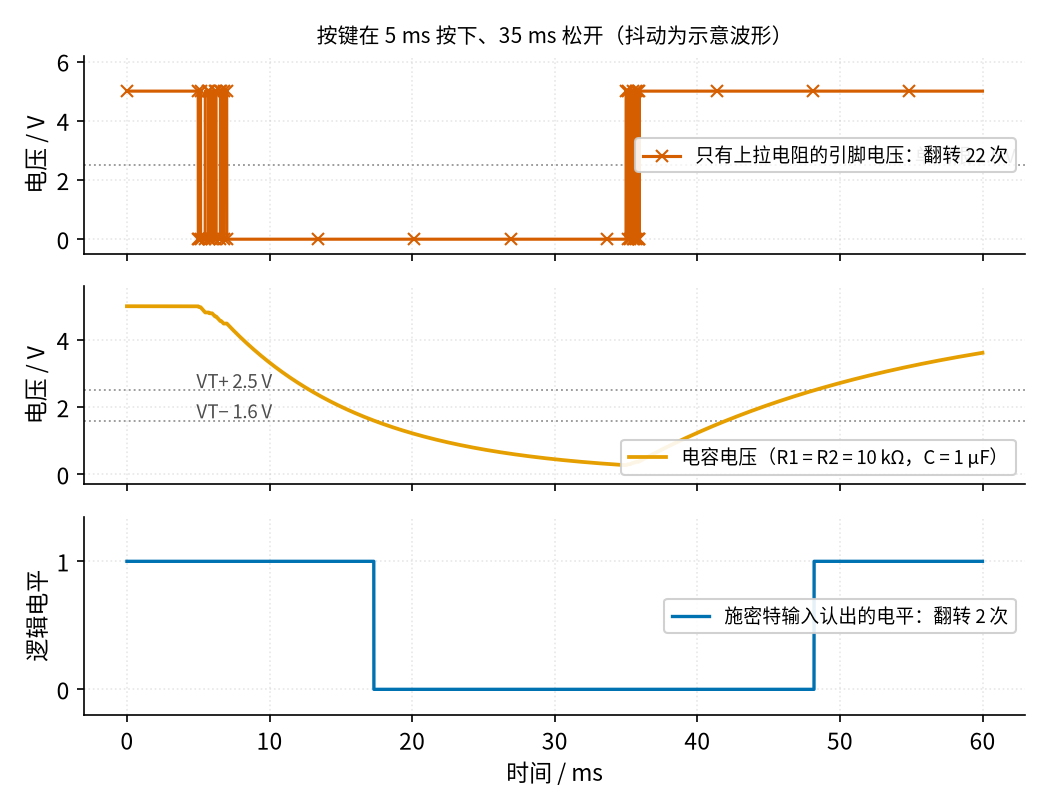
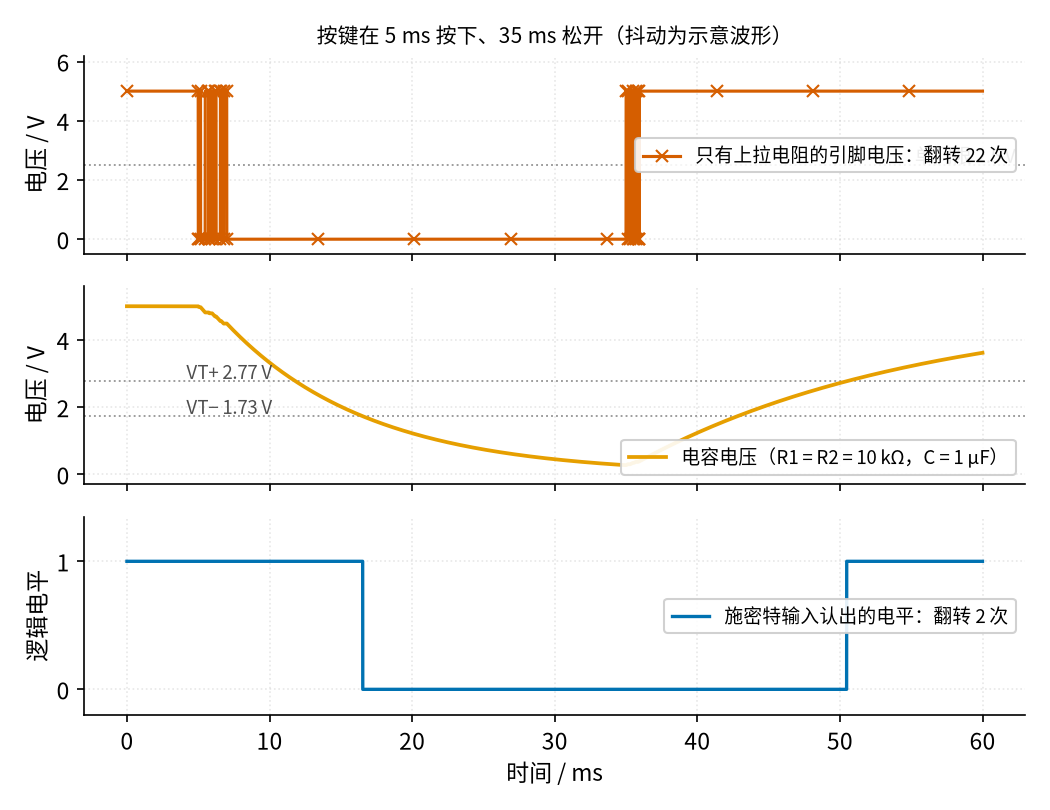
fix: 26 SPICE 核对修改

diff --git a/code/26_sim.py b/code/26_sim.py
@@ -3,11 +3,14 @@ N 沟道 MOS 管双向电平转换。
 运行：/workspace/circuits-venv/bin/python code/26_sim.py   → 26-pullup-level-shift/img/26_p2_2_debounce.png
 同时打印电平转换模型的关键数字；code/figs/26_figs.py 会调用这里的函数（包括 level_shifter）画其余的图。
 数据来源：
-- 施密特门限：TI SN74HC14 数据手册，VCC = 4.5 V 一行典型值 VT+ 2.5 V、VT− 1.6 V（5 V 系统近似使用）。
+- 施密特门限：TI SN74HC14 数据手册只给 4.5 V、6 V 两栏（典型 VT+ 2.5 / 3.3 V，VT− 1.6 / 2.0 V），
+  本电路接 5 V，按两栏线性插值到 5 V：VT+ ≈ 2.77 V、VT− ≈ 1.73 V（与 TI 的 SN74HC14 SPICE 模型在 5 V 下一致）。
 - 单片机输入门限：Microchip ATmega328P 数据手册 VIL ≤ 0.3·VCC、VIH ≥ 0.6·VCC，内部上拉 20–50 kΩ。
 - 按键抖动时长：Ganssle《A Guide to Debouncing》第 1 部分，平均约 1.5 ms、多数不超过 6.2 ms。
   本脚本的抖动波形是按这个量级随机生成的示意波形，不是实测数据。
-- 电平转换 MOS 管：onsemi BSS138，VGS(th) 典型 1.3 V，VGS = 4.5 V 时 RDS(on) 典型 1.0 Ω。
+- 电平转换 MOS 管：BSS138。沟道参数取 Diodes 公司 BSS138 官方 SPICE 模型（spice/models/BSS138_diodes.lib）：
+  VTO = 1 V、KP = 0.395 A/V²；没有计入管子自身的结电容，所以松手后的上升过程比 SPICE 快（见 page2 仿真二）。
+  onsemi 手册的 VGS(th) 为 0.8 / 1.3 / 1.5 V（最小 / 典型 / 最大），模型的 1 V 在这个范围内。
 - I²C 上升时间：TI SLVA689A，tr = 0.8473·Rp·Cb。
 """
 import os, sys
@@ -15,7 +18,8 @@ sys.path.insert(0, os.path.join(os.path.dirname(os.path.abspath(__file__)), "fig
 import numpy as np
 
 VCC = 5.0
-VT_P, VT_M = 2.5, 1.6            # SN74HC14 正向 / 负向门限典型值（V）
+VT_P = round(2.5 + (3.3 - 2.5) * (5.0 - 4.5) / (6.0 - 4.5), 2)   # SN74HC14 正向门限，插值到 5 V：2.77 V
+VT_M = round(1.6 + (2.0 - 1.6) * (5.0 - 4.5) / (6.0 - 4.5), 2)   # 负向门限，插值到 5 V：1.73 V
 V_MID = 2.5                      # 没有回差的输入：近似为一个 VCC/2 的单门限
 VIL, VIH = 0.3 * VCC, 0.6 * VCC  # ATmega328P 保证读成 0 / 1 的电压
 
@@ -94,7 +98,7 @@ def rp_max(tr, cb):
 
 
 # ---------------- N 沟道 MOS 管双向电平转换（AN10441 电路） ----------------
-VTH, KP = 1.3, 1.0 / (1.0 * (4.5 - 1.3))   # BSS138：门限 1.3 V；由 RDS(on) = 1 Ω @ VGS 4.5 V 反推（A/V²）
+VTH, KP = 1.0, 0.395                        # BSS138：Diodes 官方 SPICE 模型的 VTO（V）和 KP（A/V²）
 VDIODE, RDIODE = 0.6, 50.0                  # 体二极管：0.6 V 以上导通，串 50 Ω（示意）
 
 
@@ -180,9 +184,14 @@ if __name__ == "__main__":
     d_press = t[i_fall] - 5e-3
     d_release = t[i_rise] - 35e-3
     print(f"只有上拉：引脚翻转 {n_raw} 次；RC + 施密特：翻转 {n_out} 次")
-    print(f"按下后 {d_press*1e3:.1f} ms 认成按下（估算 R2·C·ln(5/1.6) = {R2*C1*np.log(5/1.6)*1e3:.1f} ms）")
-    print(f"松开后 {d_release*1e3:.1f} ms 认成松开（估算 (R1+R2)·C·ln(5/2.5) = {(R1+R2)*C1*np.log(2)*1e3:.1f} ms）")
+    est_p = R2 * C1 * np.log(VCC / VT_M)
+    est_r = (R1 + R2) * C1 * np.log(VCC / (VCC - VT_P))
+    print(f"门限（插值到 5 V）：VT+ = {VT_P:.2f} V，VT− = {VT_M:.2f} V")
+    print(f"按下后 {d_press*1e3:.1f} ms 认成按下（估算 R2·C·ln(5/{VT_M:.2f}) = {est_p*1e3:.1f} ms）")
+    print(f"松开后 {d_release*1e3:.1f} ms 认成松开（估算 (R1+R2)·C·ln(5/{VCC-VT_P:.2f}) = {est_r*1e3:.1f} ms）")
     assert n_out == 2 and n_raw > 6
+    # 与 SPICE（TI SN74HC14 模型，5 V，同一段抖动）对照：11.36 ms / 15.66 ms，见 review/spice/26.md
+    assert abs(d_press * 1e3 - 11.36) < 0.6 and abs(d_release * 1e3 - 15.66) < 0.8
 
     # 电平转换：和图 26-p2-3 同样的激励（图由 code/figs/26_figs.py 调用 level_shifter 画出）
     dt_ls = 2e-9
@@ -198,6 +207,8 @@ if __name__ == "__main__":
     print(f"电平转换：松手后 {(t_ls[ii]-15e-6)*1e9:.0f} ns 两边在 {VL[ii]:.2f} V 处分开")
     print(f"电平转换：源漏接反时，空闲的 3.3 V 侧被抬到 {VLs[kk(3e-6)]:.2f} V")
     assert VL[kk(10e-6)] < 0.15 and VH[kk(10e-6)] < 0.15 and VLs[kk(3e-6)] > 3.5
+    # 分开点 ≈ 3.3 V − VTO；SPICE（Diodes 模型）为 2.32 V
+    assert abs(VL[ii] - (3.3 - VTH)) < 0.05 and abs(VL[ii] - 2.32) < 0.05
 
     fig, axs = plt.subplots(3, 1, figsize=(7, 5.4), sharex=True)
     ms = t * 1e3
@@ -206,8 +217,8 @@ if __name__ == "__main__":
     axs[0].set_ylim(-0.5, 6.2)
     axs[0].legend(loc="center right", fontsize=9)
     axs[1].plot(ms, vc, **fs.LS["vout"], label="电容电压（R1 = R2 = 10 kΩ，C = 1 μF）")
-    fs.ref_h(axs[1], VT_P, "VT+ 2.5 V", x=0.2)
-    fs.ref_h(axs[1], VT_M, "VT− 1.6 V", x=0.2)
+    fs.ref_h(axs[1], VT_P, f"VT+ {VT_P:.2f} V", x=0.2)
+    fs.ref_h(axs[1], VT_M, f"VT− {VT_M:.2f} V", x=0.2)
     axs[1].set_ylim(-0.3, 5.6)
     axs[1].legend(loc="lower right", fontsize=9)
     axs[2].plot(ms, logic.astype(float), **fs.LS["vin"], label=f"施密特输入认出的电平：翻转 {n_out} 次")

diff --git a/code/figs/26_figs.py b/code/figs/26_figs.py
@@ -148,7 +148,7 @@ def fig_p2_3():
     k = lambda tt: int(round(tt / dt))
     print(f"p2_3 正确接法：空闲 {VL[k(3e-6)]:.2f} / {VH[k(3e-6)]:.2f} V；3.3 V 侧拉低时 {VL[k(10e-6)]:.3f} / {VH[k(10e-6)]:.3f} V；"
           f"5 V 侧拉低时 {VL[k(27e-6)]:.3f} / {VH[k(27e-6)]:.3f} V")
-    # 上升沿：MOS 管在低压侧约 3.3−1.3 = 2.0 V 时关断，之后两边各自充电
+    # 上升沿：MOS 管在低压侧约 3.3 V − VTH（模型 1 V）≈ 2.3 V 时关断，之后两边各自充电
     i0 = k(15e-6)
     ii = i0 + np.argmax(VH[i0:] - VL[i0:] > 0.05)
     print(f"p2_3 松手后两边分开时的电压 {VL[ii]:.2f} V，时刻 +{(t[ii]-15e-6)*1e9:.0f} ns")
@@ -182,6 +182,7 @@ def fig_p2_3():
     fs.save(fig, N, "26_p2_3_shifter_sim.png")
     assert VL[k(27e-6)] < 0.2 and VH[k(10e-6)] < 0.2 and abs(VL[k(3e-6)] - 3.3) < 0.01
     assert VLs[k(3e-6)] > 3.7
+    assert abs(VL[ii] - 2.32) < 0.05          # SPICE（Diodes BSS138 模型）分开点 2.32 V
     return VL[ii]
 
 

diff --git a/26-pullup-level-shift/page2.md b/26-pullup-level-shift/page2.md
@@ -8,8 +8,8 @@
 
 - **输入门限**：数字输入不是「高于一半就算 1」那么简单。ATmega328P 数据手册写明，低于 $0.3 V_{CC}$ 保证读成 0，高于 $0.6 V_{CC}$ 保证读成 1，中间不作保证；它还说明输入漏电流不超过 1 μA，内部上拉电阻为 20～50 kΩ。
 - **RC 充放电**（[P1 元件速成 · 原理与实现篇](../P1-components-basics/page2.md)）：电容经电阻从 $V_0$ 向 $V_\infty$ 变化时， $v(t) = V_\infty + (V_0 - V_\infty) e^{-t/\tau}$ ，其中 $\tau = RC$ 。
-- **施密特门限**（[14 电压比较器 · 直觉篇](../14-voltage-comparator/page1.md)）：电压要升过上门限 $V_{T+}$ 才翻成 1，要降过下门限 $V_{T-}$ 才翻成 0。本页用 74HC14 施密特反相器，TI 数据手册在 4.5 V 供电时给出的典型值是 $V_{T+} = 2.5\text{ V}$ 、 $V_{T-} = 1.6\text{ V}$ ，5 V 时按这组数估算。
-- **MOS 管导通条件**（[21 MOS 管开关 · 直觉篇](../21-mosfet-switch/page1.md)）：栅源电压 $V_{GS}$ 超过门限 $V_{GS(th)}$ 才导通。本页的 BSS138 门限典型 1.3 V。
+- **施密特门限**（[14 电压比较器 · 直觉篇](../14-voltage-comparator/page1.md)）：电压要升过上门限 $V_{T+}$ 才翻成 1，要降过下门限 $V_{T-}$ 才翻成 0。本页用 74HC14 施密特反相器，接 5 V。TI 数据手册只给出 4.5 V 和 6 V 两栏，典型值分别是 $V_{T+} = 2.5\text{ V}$ / $3.3\text{ V}$ 、 $V_{T-} = 1.6\text{ V}$ / $2.0\text{ V}$ ；按两栏线性插值到 5 V，得到 $V_{T+} \approx 2.77\text{ V}$ 、 $V_{T-} \approx 1.73\text{ V}$ ，本页都用这组 5 V 的值（TI 的 SN74HC14 SPICE 模型在 5 V 下也是这两个数）。
+- **MOS 管导通条件**（[21 MOS 管开关 · 直觉篇](../21-mosfet-switch/page1.md)）：栅源电压 $V_{GS}$ 超过门限 $V_{GS(th)}$ 才导通。BSS138 的门限按 onsemi 手册是 0.8～1.5 V（典型 1.3 V），本页仿真用 Diodes 公司 BSS138 SPICE 模型里的 1 V。
 
 ## 推导一：上拉电阻上的两种电平
 
@@ -75,7 +75,7 @@ $$t_{release} = (R_1 + R_2) C \ln\frac{V_{CC}}{V_{CC} - V_{T+}}$$
 
 中文意思：**松开后要等电容电压升过上门限，充电要经过两只电阻，所以通常比按下时慢**。
 
-代入 $R_1 = R_2 = 10\text{ kΩ}$ 、 $C = 1\text{ μF}$ ： $t_{press} = 10\text{ ms} \times \ln(5/1.6) \approx 11.4\text{ ms}$ ， $t_{release} = 20\text{ ms} \times \ln 2 \approx 13.9\text{ ms}$ 。两者都比常见的几毫秒抖动长，又远低于 Ganssle 说的「50 ms 以内人感觉不到延迟」。
+代入 $R_1 = R_2 = 10\text{ kΩ}$ 、 $C = 1\text{ μF}$ 和 5 V 门限： $t_{press} = 10\text{ ms} \times \ln(5/1.73) \approx 10.6\text{ ms}$ ， $t_{release} = 20\text{ ms} \times \ln(5/2.23) \approx 16.1\text{ ms}$ 。用 TI 的 SN74HC14 模型做 SPICE 仿真，得到 10.4 ms 和 16.3 ms，相差不到 2%。两者都比常见的几毫秒抖动长，又远低于 Ganssle 说的「50 ms 以内人感觉不到延迟」。
 
 抖动期间触点时通时断，电容电压会往回弹一点，但只要没有越过另一个门限，施密特输入就不会翻转，这就是回差在这里的作用。
 
@@ -83,11 +83,11 @@ $$t_{release} = (R_1 + R_2) C \ln\frac{V_{CC}}{V_{CC} - V_{T+}}$$
 
 [直觉篇](page1.md) 电平转换电路里那只 Q1 的栅极固定接 3.3 V，源极接 3.3 V 一侧的线电压 $V_L$ ，所以
 
-$$V_{GS} = 3.3\text{ V} - V_L \gt V_{GS(th)} \quad\Longleftrightarrow\quad V_L \lt 3.3\text{ V} - 1.3\text{ V} = 2.0\text{ V}$$
+$$V_{GS} = 3.3\text{ V} - V_L \gt V_{GS(th)} \quad\Longleftrightarrow\quad V_L \lt 3.3\text{ V} - V_{GS(th)}$$
 
-中文意思：**低压侧线电压低于约 2 V 时管子导通，两边连在一起；高于 2 V 时管子关断，两边各走各的**。
+中文意思：**低压侧线电压低于「3.3 V 减门限」时管子导通，两边连在一起；高于它时管子关断，两边各走各的**。按仿真用的模型门限 1 V，这个分开点是 $3.3\text{ V} - 1\text{ V} = 2.3\text{ V}$ ；按 onsemi 手册的典型 1.3 V 则是 2.0 V。门限随管子不同，分开点也会差几百毫伏。
 
-5 V 一侧拉低时，Q1 一开始是关断的，靠体二极管（正极在源极、负极在漏极）把 $V_L$ 拉到「高压侧电压加 0.6 V 左右」，一旦 $V_L$ 低于 2 V，沟道导通，把 $V_L$ 拉到和高压侧几乎一样低。
+5 V 一侧拉低时，Q1 一开始是关断的，靠体二极管（正极在源极、负极在漏极）把 $V_L$ 拉到「高压侧电压加 0.6 V 左右」，一旦 $V_L$ 低于约 2.3 V，沟道导通，把 $V_L$ 拉到和高压侧几乎一样低。
 
 ## 代数小结
 
@@ -97,9 +97,9 @@ $$V_{GS} = 3.3\text{ V} - V_L \gt V_{GS(th)} \quad\Longleftrightarrow\quad V_L \
 | 按下时电流 | $V_{CC} / R$ | 5 V / 10 kΩ = 0.5 mA | 电阻越小越费电 |
 | 上升时间 | $0.8473 R_p C_b$ | 1.5 kΩ、200 pF：254 ns | 电阻越大越慢 |
 | 上拉下限 | $(V_{CC} - V_{OL}) / I_{OL}$ | 3.3 V：967 Ω | 输出管要拉得动 |
-| 按下判定时间 | $R_2 C \ln(V_{CC}/V_{T-})$ | 11.4 ms | 只经 R2 放电 |
-| 松开判定时间 | $(R_1+R_2) C \ln(V_{CC}/(V_{CC}-V_{T+}))$ | 13.9 ms | 经两只电阻充电 |
-| 电平转换导通条件 | $V_L \lt V_{DD1} - V_{GS(th)}$ | 低于约 2.0 V | 栅极接低压电源 |
+| 按下判定时间 | $R_2 C \ln(V_{CC}/V_{T-})$ | 10.6 ms | 只经 R2 放电 |
+| 松开判定时间 | $(R_1+R_2) C \ln(V_{CC}/(V_{CC}-V_{T+}))$ | 16.1 ms | 经两只电阻充电 |
+| 电平转换导通条件 | $V_L \lt V_{DD1} - V_{GS(th)}$ | 低于约 2.3 V（门限 1 V） | 栅极接低压电源 |
 
 ## 仿真一：按键抖动经过 RC 和施密特门限
 
@@ -114,7 +114,7 @@ import matplotlib                       # 画图库
 matplotlib.use("Agg")                   # 不弹窗口，直接存图
 import matplotlib.pyplot as plt
 
-VCC, VTP, VTM = 5.0, 2.5, 1.6           # 电源；74HC14 上门限、下门限（典型值）
+VCC, VTP, VTM = 5.0, 2.77, 1.73         # 电源；74HC14 上门限、下门限（5 V 典型值，插值）
 R1, R2, C = 10e3, 10e3, 1e-6            # 去抖电路取值
 DT = 2e-6                               # 每步 2 µs
 t = np.arange(0, 60e-3, DT)
@@ -159,28 +159,28 @@ fig.savefig("debounce.png", dpi=100)
 print("已保存 debounce.png")
 ```
 
-运行后会打印：只接上拉时翻转 22 次，RC 加施密特只翻转 2 次（一次按下、一次松开），约 12.3 ms 认出按下、约 13.2 ms 认出松开。仓库里的 `code/26_sim.py` 用同样的模型画出下面的图 26-p2-2：
+运行后会打印：只接上拉时翻转 22 次，RC 加施密特只翻转 2 次（一次按下、一次松开），约 11.5 ms 认出按下、约 15.5 ms 认出松开。仓库里的 `code/26_sim.py` 用同样的模型画出下面的图 26-p2-2：
 
-![三层波形：上层只接上拉电阻的引脚电压在按下和松开时各抖动多次，共翻转 22 次；中层电容电压在 5 ms 后缓慢下降、35 ms 后缓慢回升，与 2.5 V、1.6 V 两条门限相交；下层施密特输入认出的电平只翻转 2 次](img/26_p2_2_debounce.png)
+![三层波形：上层只接上拉电阻的引脚电压在按下和松开时各抖动多次，共翻转 22 次；中层电容电压在 5 ms 后缓慢下降、35 ms 后缓慢回升，与 2.77 V、1.73 V 两条门限相交；下层施密特输入认出的电平只翻转 2 次](img/26_p2_2_debounce.png)
 
 *图 26-p2-2　按键抖动经过 RC 和施密特门限：上层只有上拉电阻，中层电容电压，下层施密特输入认出的电平*
 
-图 26-p2-2 上层朱红色带 × 的曲线是只有上拉电阻时引脚的电压，按下和松开处各是一团密集的跳变。中层橙色曲线是电容电压，抖动只在它上面留下几个小台阶；两条灰色点线分别是 2.5 V 和 1.6 V 门限。下层蓝色曲线是施密特输入认出的电平，只在电容电压越过门限时各翻转一次。
+图 26-p2-2 上层朱红色带 × 的曲线是只有上拉电阻时引脚的电压，按下和松开处各是一团密集的跳变。中层橙色曲线是电容电压，抖动只在它上面留下几个小台阶；两条灰色点线分别是 2.77 V 和 1.73 V 门限。下层蓝色曲线是施密特输入认出的电平，只在电容电压越过门限时各翻转一次。
 
-仿真得到的 12.3 ms 比推导的 11.4 ms 多约 1 ms，因为前 2 ms 抖动里触点有一半时间是断开的，放电「打了折扣」；松开的 13.2 ms 比 13.9 ms 略短，因为电容在 30 ms 里只放到约 0.25 V，没有到 0，充电起点高了一点。两处差别都不到 1 ms，说明推导的公式可以直接用来选元件。
+仿真得到的 11.5 ms 比推导的 10.6 ms 多约 1 ms，因为前 2 ms 抖动里触点有一半时间是断开的，放电「打了折扣」；松开的 15.5 ms 比 16.1 ms 略短，因为电容在 30 ms 里只放到约 0.25 V，没有到 0，充电起点高了一点。两处差别都不到 1 ms，说明推导的公式可以直接用来选元件。把同一段抖动波形交给 TI 的 SN74HC14 SPICE 模型，得到 11.4 ms 和 15.7 ms，和这里的结果相差不到 2%。
 
 ## 仿真二：电平转换管两个方向的动作
 
-`code/26_sim.py` 里还有一个 MOS 管电平转换模型（函数 `level_shifter`）：BSS138 门限取 1.3 V，导通电阻按手册「 $V_{GS}$ = 4.5 V 时 1 Ω」反推（本电路 $V_{GS}$ 最多 3.3 V，实际导通电阻会更大，这里按 4.5 V 的值近似；它仍远小于 10 kΩ 上拉，不影响结论），体二极管 0.6 V 起导通；两边各 10 kΩ 上拉、各 50 pF 线电容；两边的器件都是开漏输出，导通电阻 100 Ω。先让 3.3 V 一侧在 5～15 μs 拉低，再让 5 V 一侧在 22～32 μs 拉低，运行 `code/26_sim.py` 会打印下面用到的 0.08 V、328 ns 后 2.02 V 分开、接反时 3.85 V 这几个数；图 26-p2-3 由 `code/figs/26_figs.py` 调用同一个函数画出：
+`code/26_sim.py` 里还有一个 MOS 管电平转换模型（函数 `level_shifter`）：BSS138 的门限和导通能力取自 Diodes 公司的 BSS138 SPICE 模型（门限 1 V），体二极管 0.6 V 起导通，没有计入管子自身的结电容；两边各 10 kΩ 上拉、各 50 pF 线电容；两边的器件都是开漏输出，导通电阻 100 Ω。先让 3.3 V 一侧在 5～15 μs 拉低，再让 5 V 一侧在 22～32 μs 拉低，运行 `code/26_sim.py` 会打印下面用到的 0.08 V、404 ns 后 2.31 V 分开、接反时 3.85 V 这几个数；图 26-p2-3 由 `code/figs/26_figs.py` 调用同一个函数画出：
 
-![三层波形：(a) 正确接法下，任一侧拉低时两侧都降到约 0.08 V，松手后 3.3 V 侧回到 3.3 V、5 V 侧回到 5 V；(b) 放大松手后的上升沿，两条线一起升到约 2.0 V 后分开；(c) 源极和漏极接反时，空闲时 3.3 V 侧被抬到 3.85 V](img/26_p2_3_shifter_sim.png)
+![三层波形：(a) 正确接法下，任一侧拉低时两侧都降到约 0.08 V，松手后 3.3 V 侧回到 3.3 V、5 V 侧回到 5 V；(b) 放大松手后的上升沿，两条线一起升到约 2.3 V 后分开；(c) 源极和漏极接反时，空闲时 3.3 V 侧被抬到 3.85 V](img/26_p2_3_shifter_sim.png)
 
 *图 26-p2-3　单 MOS 管电平转换的仿真：(a) 正确接法，(b) 上升沿放大，(c) 源漏接反*
 
 图 26-p2-3 中橙色是 5 V 一侧的线电压，蓝色是 3.3 V 一侧的线电压：
 
 - **(a) 正确接法**：浅蓝底色那段是 3.3 V 一侧在拉低，浅黄底色那段是 5 V 一侧在拉低。两段时间里两条线都降到约 0.08 V，无论哪一边先动手，另一边都跟着变低；松手后蓝色回到 3.3 V、橙色回到 5 V，各自的高电平互不干扰。
-- **(b) 上升沿放大**：两条线先一起上升，约 328 ns 后升到 2.02 V，与推导四的「约 2.0 V 时关断」一致；之后 Q1 关断，橙色只靠自己那只 10 kΩ 继续充到 5 V。
+- **(b) 上升沿放大**：两条线先一起上升，约 404 ns 后升到 2.31 V，与推导四的「3.3 V − 1 V = 2.3 V 时关断」一致；之后 Q1 关断，橙色只靠自己那只 10 kΩ 继续充到 5 V。用完整的 Diodes SPICE 模型仿真，分开点同样是 2.32 V，但要约 0.77 μs 才到：管子自身有几十 pF 的结电容，和 50 pF 线电容是同一量级，把上升沿拖慢了将近一倍。
 - **(c) 源极、漏极接反**：源极到了 5 V 一侧，体二极管变成从 5 V 侧指向 3.3 V 侧，空闲时把蓝色抬到 3.85 V，比 3.3 V 电源还高。拉低功能看起来照常，所以这种错误很容易被忽略，3.3 V 的芯片却一直在承受过压。
 
 ## 例题
@@ -199,7 +199,7 @@ print("已保存 debounce.png")
 
 <details><summary>答案</summary>
 
-按下 $4.7\text{ ms} \times \ln(5/1.6) \approx 5.4\text{ ms}$ ；松开 $9.4\text{ ms} \times \ln 2 \approx 6.5\text{ ms}$ ；按下判定时间 5.4 ms 比 6.2 ms 短。不过施密特门限还有回差把关：只要抖动中触点断开的时间不足以让电容回升到 2.5 V，输出就不会多翻，参数与调试篇的扫描会说明这个时间常数仍然够用。
+按下 $4.7\text{ ms} \times \ln(5/1.73) \approx 5.0\text{ ms}$ ；松开 $9.4\text{ ms} \times \ln(5/2.23) \approx 7.6\text{ ms}$ （SPICE 4.9 ms、7.7 ms）；按下判定时间 5.0 ms 比 6.2 ms 短。不过施密特门限还有回差把关：只要抖动中触点断开的时间不足以让电容回升到 2.77 V，输出就不会多翻，参数与调试篇的扫描会说明这个时间常数仍然够用。
 
 </details>
 

diff --git a/26-pullup-level-shift/page3.md b/26-pullup-level-shift/page3.md
@@ -14,15 +14,15 @@
 | 按键外接上拉 | 按键、拨码开关的上拉 | 4.7～10 kΩ | 按下电流 0.5～1 mA；松手电平几乎等于电源 |
 | I²C 上拉 $R_p$ | 开漏总线的上拉 | 3.3 V、200 pF 快速模式：0.97～1.77 kΩ | SLVA689A 的上限、下限公式 |
 | 总线电容 $C_b$ | 导线和各引脚电容之和 | 几十～400 pF | 标准模式、快速模式上限都是 400 pF |
-| 74HC14 门限 | 施密特输入的上、下门限 | 4.5 V 时典型 2.5 V / 1.6 V | 最小、最大值范围很宽：上门限 1.55～3.13 V，下门限 0.9～2.45 V |
+| 74HC14 门限 | 施密特输入的上、下门限 | 5 V 时典型 2.77 V / 1.73 V | TI 手册只有 4.5 V、6 V 两栏，5 V 的值按两栏线性插值。范围很宽：5 V 时上门限约 1.73～3.49 V，下门限约 1.00～2.70 V |
 | 去抖时间 | 硬件或软件等抖动结束的时间 | 20～50 ms | Ganssle：设计按 20 ms 留余量，50 ms 以内人感觉不到 |
-| BSS138 门限 | 电平转换管 $V_{GS(th)}$ | 0.8 / 1.3 / 1.5 V（最小 / 典型 / 最大） | 低压侧电源要比最大门限高出足够多 |
+| BSS138 门限 | 电平转换管 $V_{GS(th)}$ | 0.8 / 1.3 / 1.5 V（最小 / 典型 / 最大） | 低压侧电源要比最大门限高出足够多；本节仿真用的 Diodes SPICE 模型取 1 V，分开点因此在 2.3 V 左右 |
 | BSS138 导通电阻 | $R_{DS(on)}$ | $V_{GS} = 4.5\text{ V}$ 时典型 1.0 Ω、最大 6.0 Ω | 手册的值是在 4.5 V 下测的；本电路 $V_{GS} \le 3.3\text{ V}$ ，导通电阻会更大，但仍远小于几 kΩ 的上拉，导通时两边几乎等电位，结论不变 |
 | BSS138 耐压、电流 | $V_{DS}$ 、 $I_D$ | 50 V、0.22 A | 对 5 V 信号绰绰有余 |
 
 几点说明：
 
-- **74HC14 的门限分散很大**。上门限最小 1.55 V、最大 3.13 V，设计去抖时要按最坏情况核算：按下判定时间用 $V_{T-}$ 的最大值 2.45 V 算会变短，松开判定时间用 $V_{T+}$ 的最大值 3.13 V 算会变长。
+- **74HC14 的门限分散很大**。5 V 时上门限约 1.73～3.49 V，设计去抖时要按最坏情况核算：按下判定时间用 $V_{T-}$ 的最大值约 2.70 V 算会变短，松开判定时间用 $V_{T+}$ 的最大值约 3.49 V 算会变长。
 - **电容的误差也大**。Ganssle 提醒电解电容常见 +80% / −20%，陶瓷电容约 ±30%，时间常数要留出这部分余量。
 - **低压侧电源不能太低**。导通时 $V_{GS}$ 最多等于低压侧电源电压。3.3 V 减去 BSS138 最大门限 1.5 V 还剩 1.8 V，管子能可靠导通；低压侧只有 1.8 V 时余量就很小了，应当查手册换门限更低的管子。
 
@@ -42,13 +42,13 @@
 
 让 R1 = R2 = R、C = 1 μF，R 从 100 Ω 扫到 47 kΩ。每个取值都模拟 20 次按键，每次按下、松开的抖动时长在 0.5～6.2 ms 之间随机（示意，6.2 ms 取自 Ganssle 实测的最长值）。同一个电容电压分别交给施密特输入和「只有一个 2.5 V 门限、线上叠加 20 mV 噪声」的普通输入（噪声是示意值），统计每次按键多出的翻转次数和最长反应延迟，结果见图 26-p3-2。下面的数字由 `code/figs/26_figs.py` 打印（以 p3_2 开头的行）；抖动和噪声都用了固定的随机种子，所以每次运行结果都一样，可以在仓库根目录运行 `python code/figs/26_figs.py` 复现（它会重新生成同样的配图）：
 
-![左图：施密特输入多出的翻转次数随时间常数增大而减少，2.2 ms 以上为 0；单门限输入在 1 ms 附近最少，时间常数再大反而急剧增加；右图：施密特输入的最长反应延迟随时间常数增大，47 ms 时约 67 ms](img/26_p3_2_tau_sweep.png)
+![左图：施密特输入多出的翻转次数随时间常数增大而减少，2.2 ms 以上为 0；单门限输入在 1 ms 附近最少，时间常数再大反而急剧增加；右图：施密特输入的最长反应延迟随时间常数增大，47 ms 时约 78 ms](img/26_p3_2_tau_sweep.png)
 
 *图 26-p3-2　去抖时间常数扫描：(a) 每次按键多出的翻转，(b) 最长反应延迟*
 
-图 26-p3-2 的左图中，蓝色施密特输入的曲线从 0.1 ms 时每次多翻 12.5 次，降到 1 ms 时的 0.6 次，2.2 ms 以上为 0。朱红色带 × 的单门限曲线在 1 ms 附近最低（每次多翻 2.2 次），时间常数再大反而越来越糟，47 ms 时每次多翻约 77 次：电容电压变化越慢，它在门限附近停留越久，20 mV 的噪声就能让输入来回翻转。这正是 Ganssle 强调「绝不要把 RC 直接接到没有回差的单片机引脚上」的原因。
+图 26-p3-2 的左图中，蓝色施密特输入的曲线从 0.1 ms 时每次多翻 11.8 次，降到 1 ms 时的 0.3 次，2.2 ms 以上为 0。朱红色带 × 的单门限曲线在 1 ms 附近最低（每次多翻 2.2 次），时间常数再大反而越来越糟，47 ms 时每次多翻约 77 次：电容电压变化越慢，它在门限附近停留越久，20 mV 的噪声就能让输入来回翻转。这正是 Ganssle 强调「绝不要把 RC 直接接到没有回差的单片机引脚上」的原因。
 
-右图的橙色曲线是施密特输入的最长反应延迟。10 ms 时最长 17.5 ms，22 ms 时 33.9 ms，都在灰色点线 50 ms 以下；47 ms 时 66.9 ms，开始让人觉得迟钝。本节选的 10 ms 正好在「不多翻」和「反应快」之间。[P1 元件速成 · 参数与调试篇](../P1-components-basics/page3.md) 第一节参数表「时间常数 $\tau = RC$ 」一行里写的按键消抖 RC 取值，就是这里扫描选出的 10 ms。
+右图的橙色曲线是施密特输入的最长反应延迟。10 ms 时最长 19.8 ms，22 ms 时 39.0 ms，都在灰色点线 50 ms 以下；47 ms 时 77.7 ms，开始让人觉得迟钝。本节选的 10 ms 正好在「不多翻」和「反应快」之间。[P1 元件速成 · 参数与调试篇](../P1-components-basics/page3.md) 第一节参数表「时间常数 $\tau = RC$ 」一行里写的按键消抖 RC 取值，就是这里扫描选出的 10 ms。
 
 ## 4. 故障排查表
 
@@ -82,13 +82,13 @@
 
 </details>
 
-**练习 3（难）**：按 Ganssle 的保守值，希望按键按下后至少 20 ms 才确认，松开后不超过 50 ms 确认。C = 1 μF，74HC14 门限按典型值 2.5 V / 1.6 V，电源 5 V。R2、R1 各取多大？再用 74HC14 下门限的最大值 2.45 V 核算一遍按下判定时间。
+**练习 3（难）**：按 Ganssle 的保守值，希望按键按下后至少 20 ms 才确认，松开后不超过 50 ms 确认。C = 1 μF，74HC14 门限按 5 V 典型值 2.77 V / 1.73 V，电源 5 V。R2、R1 各取多大？再用 5 V 时 74HC14 下门限的最大值约 2.70 V 核算一遍按下判定时间。
 
 <details><summary>答案</summary>
 
-1. $R_2 = 20\text{ ms} / (1\text{ μF} \times \ln(5/1.6)) \approx 17.6\text{ kΩ}$ ，取标准值 18 kΩ，按下判定时间 $18\text{ ms} \times 1.139 \approx 20.5\text{ ms}$ 。
-2. 松开： $(R_1 + R_2) \times 1\text{ μF} \times \ln 2 \le 50\text{ ms}$ ，得 $R_1 + R_2 \le 72\text{ kΩ}$ ，所以 $R_1 \le 54\text{ kΩ}$ 。取 $R_1 = 18\text{ kΩ}$ 时松开判定约 $36\text{ ms} \times 0.693 \approx 25\text{ ms}$ 。
-3. 下门限 2.45 V 时，按下判定时间 $18\text{ ms} \times \ln(5/2.45) \approx 12.8\text{ ms}$ ，比 20 ms 短了不少，但仍大于 6.2 ms 的最长抖动；若一定要保证 20 ms，就要按 2.45 V 重新算 R2（约 28 kΩ）。
+1. $R_2 = 20\text{ ms} / (1\text{ μF} \times \ln(5/1.73)) \approx 18.9\text{ kΩ}$ ，取标准值 20 kΩ，按下判定时间 $20\text{ ms} \times 1.059 \approx 21.2\text{ ms}$ 。
+2. 松开： $(R_1 + R_2) \times 1\text{ μF} \times \ln(5/2.23) \le 50\text{ ms}$ ，得 $R_1 + R_2 \le 62\text{ kΩ}$ ，所以 $R_1 \le 42\text{ kΩ}$ 。取 $R_1 = 20\text{ kΩ}$ 时松开判定约 $40\text{ ms} \times 0.806 \approx 32\text{ ms}$ 。用 TI 的 SN74HC14 模型仿真这组取值，得到按下 20.7 ms、松开 32.7 ms。
+3. 下门限 2.70 V 时，按下判定时间 $20\text{ ms} \times \ln(5/2.70) \approx 12.3\text{ ms}$ ，比 20 ms 短了不少，但仍大于 6.2 ms 的最长抖动；若一定要保证 20 ms，就要按 2.70 V 重新算 R2（约 33 kΩ）。
 
 </details>
 

diff --git a/review/spice/26.md b/review/spice/26.md
@@ -143,3 +143,37 @@
 | 用导线把 3.3 V 侧接地 | 5 V 侧的线 | GND | DC 20 V | 约 0.00 V（SPICE 1.4 mV） |
 | 用导线把 5 V 侧接地 | 3.3 V 侧的线 | GND | DC 20 V | 约 0.00 V（SPICE 1 mV） |
 | 接错：源漏反接，空闲 | 3.3 V 侧的线 | GND | DC 20 V | 约 3.9 V（高于 3.3 V 就说明接反了）；5 V 侧约 4.45 V |
+
+## 修改记录（第 7 轮）
+
+改动文件：`26-pullup-level-shift/page2.md`、`page3.md`、`code/26_sim.py`、`code/figs/26_figs.py`，并重新生成 `26-pullup-level-shift/img/` 下的图（26_p2_2、26_p2_3、26_p3_2 的内容有变化）。❌ 0；⚠ 7 项全部改正，正文里直接写对，没有另加说明框。
+
+**74HC14 门限（⚠ ×4）**：TI 手册只有 4.5 V 和 6 V 两栏。按这两栏线性插值到 5 V：典型 VT+ = 2.77 V、VT− = 1.73 V，与 TI 模型一致；范围为上门限 1.73～3.49 V、下门限 1.00～2.70 V。全节改用这组 5 V 值，并重新计算：
+
+| 位置 | 改后 | SPICE（本报告） |
+|---|---|---|
+| 推导三：按下 / 松开 | 10.6 / 16.1 ms | 10.44 / 16.29 ms |
+| 仿真一：按下 / 松开（页面代码块和 `26_sim.py` 实际运行） | 11.5 / 15.5 ms | 11.36 / 15.66 ms |
+| 例 2：按下 / 松开 | 5.0 / 7.6 ms | 4.89 / 7.66 ms |
+
+- 页面里 SPICE 数值的写法：推导三给的是 10.4 / 16.3 ms，仿真一给的是 11.4 / 15.7 ms，例 2 给的是 4.9 / 7.7 ms。
+- 页面代码块和 `VT_P`/`VT_M` 都改为 2.77 / 1.73。图 26-p2-2 的门限标签、alt 文字和正文同步更新。
+- 练习 3 重新求解：
+  - R2 ≈ 18.9 kΩ，取 20 kΩ，按下 21.2 ms。
+  - R1 + R2 ≤ 62 kΩ；取 R1 = 20 kΩ，松开 32 ms。
+  - 用本轮在 scratch 里实际运行的 `spice/26/debounce.cir`（R1 = R2 = 20k，网表未改）验证：按下 20.68 ms、松开 32.71 ms，已写入答案。
+  - 用下门限最大值 2.70 V 核算，按下为 12.3 ms；要保证 20 ms，R2 约需 33 kΩ。
+- page3 参数表和「门限分散」说明改为 5 V 的范围。
+- 扫描图 26-p3-2 用新门限重新运行。施密特多翻次数改为 11.8 次（0.1 ms）、0.3 次（1 ms）；最长延迟改为 19.8 ms（10 ms）、39.0 ms（22 ms）、77.7 ms（47 ms）。结论不变：10 ms 时不多翻，延迟也在 50 ms 以内。
+- `26_sim.py` 加了 assert：仿真一与 SPICE 的 11.36 / 15.66 ms 相差都在 0.6 / 0.8 ms 以内。
+
+**BSS138 分开点（⚠ ×3）**：`level_shifter` 的沟道参数改为 Diodes 官方模型（与 SPICE 相同）的 VTO = 1 V、KP = 0.395 A/V²。改后：
+
+- 仿真分开点为 2.31 V（SPICE 2.32 V），时刻 404 ns。
+- 在 scratch 里用同一网表、把模型结电容置零跑 ngspice，得到 405 ns、2.313 V。这说明 SPICE 的 767 ns 主要来自管子自身的结电容（几十 pF，与 50 pF 线电容同一量级），不是因为低 V_GS 下导通电阻更大。page2 仿真二 (b) 写明了这一点和 0.77 µs 的数值。
+- 推导四改为一般式 V_L < 3.3 V − V_GS(th)：按模型门限 1 V 是 2.3 V，按 onsemi 典型 1.3 V 是 2.0 V。代数小结表和 page3 参数表同步更新。
+- 两个脚本都加了 assert：分开点与 2.32 V 相差在 0.05 V 以内。接反时 3.85 / 4.45 V 不变。
+
+**ℹ**：不改。导航链接：报告未指出错误链接。另外，`notes/26-research.md` 里还留着旧数字（12.3 / 13.2 ms、328 ns、2.02 V 等）；它不在本人可改的范围内，没有动。
+
+检查：fix_inline_math_spacing --check 为 0；count_cjk（1610 / 2658 / 3012）、run_blocks（页面 + 两个脚本）、check_figs、check_github_math 全部通过；仓库根目录没有多余文件。
